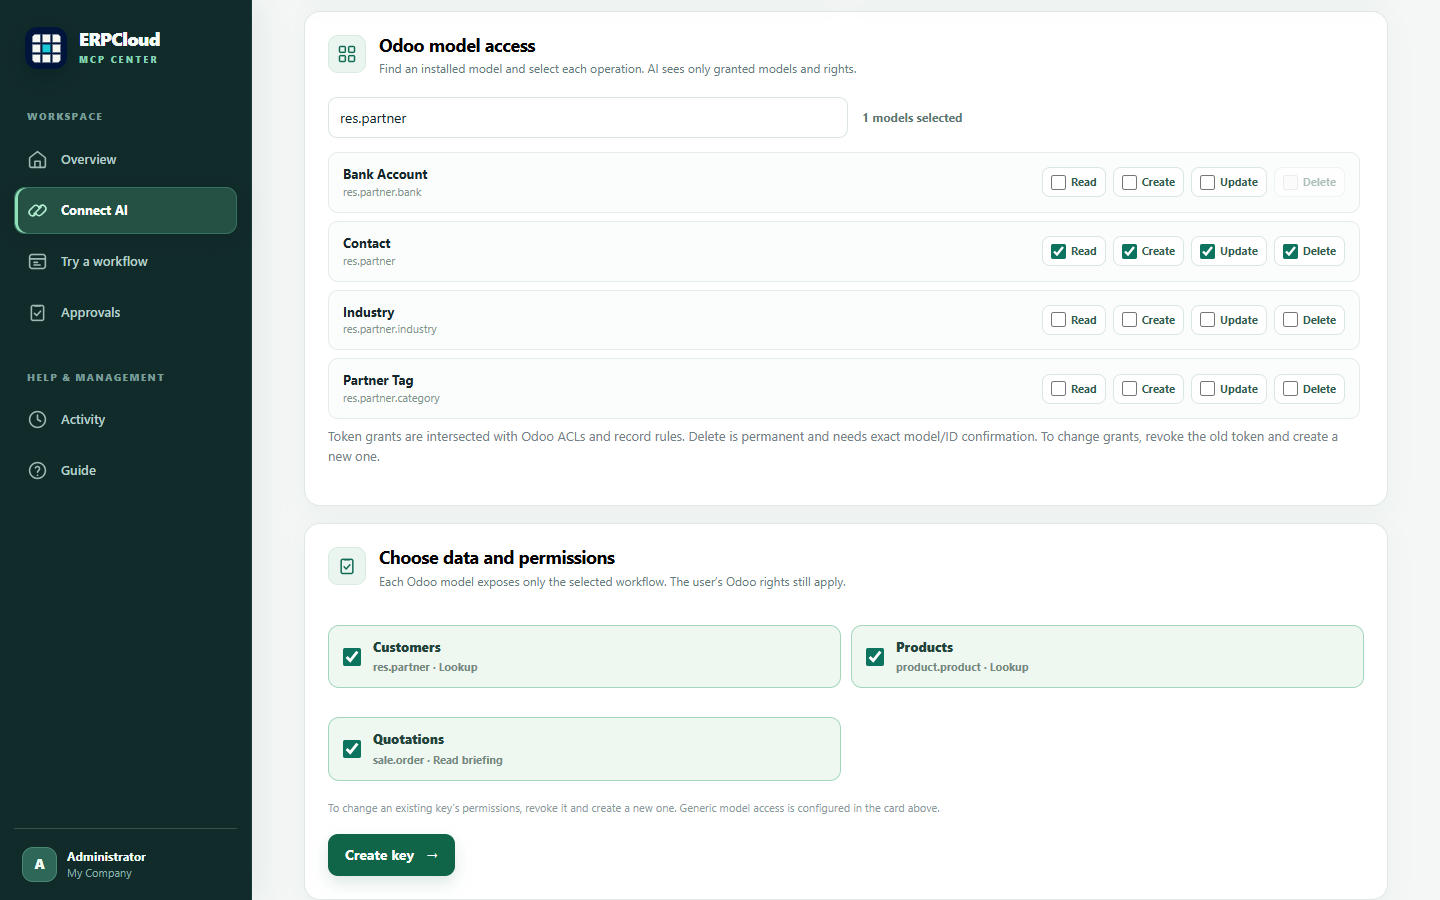
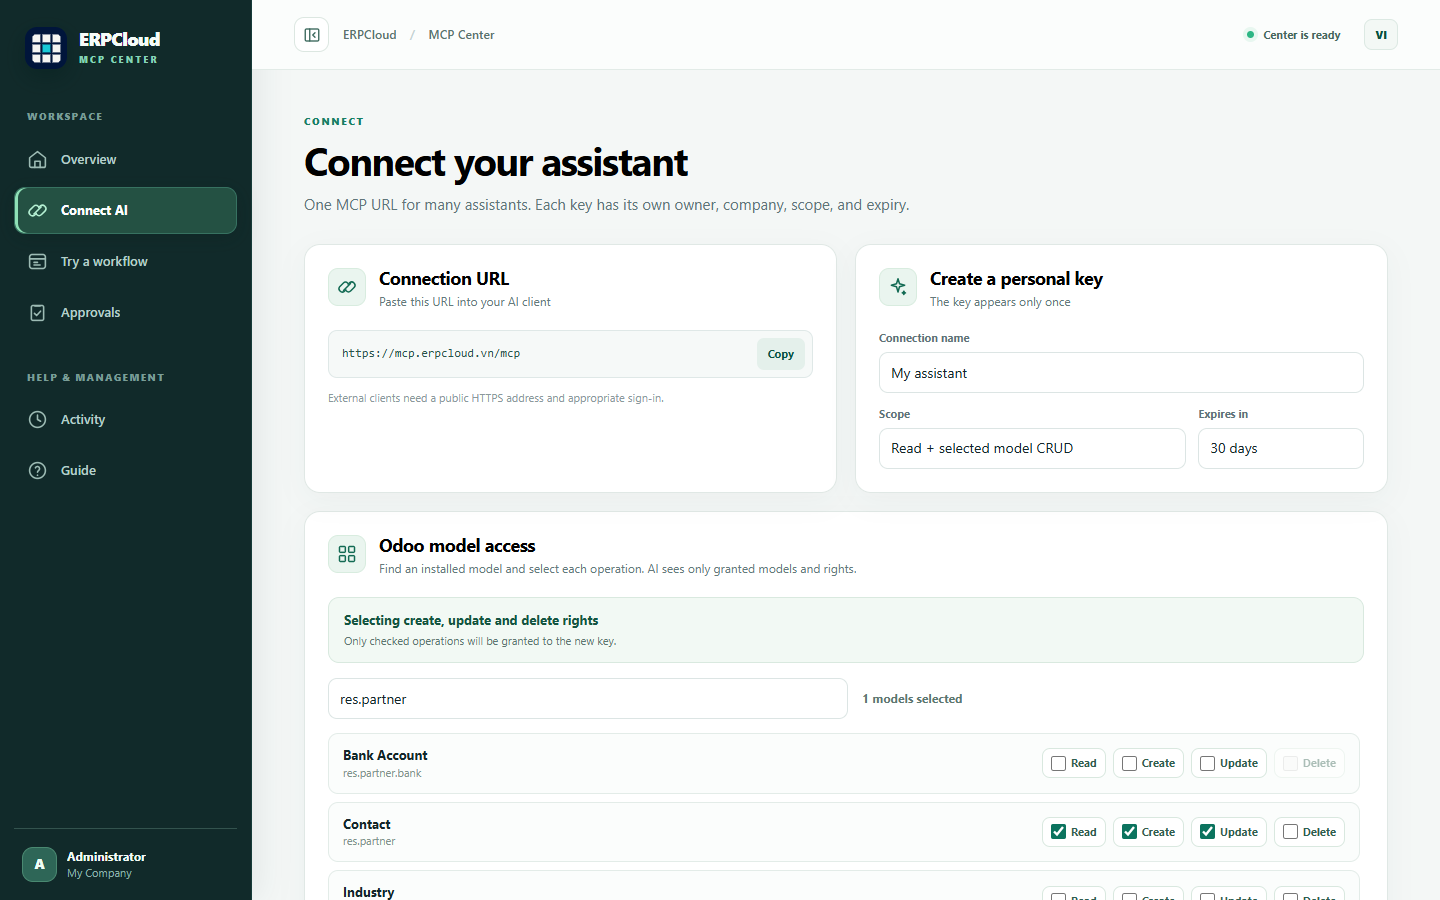
Make MCP model CRUD scope discoverable

diff --git a/erpcloud_mcp_center/static/src/center/center.scss b/erpcloud_mcp_center/static/src/center/center.scss
@@ -76,6 +76,12 @@
 .emc-app input,.emc-app select { display:block; width:100%; height:39px; border:1px solid #dce5e4; border-radius:8px; background:#fff; padding:0 11px; color:var(--emc-ink); outline:none; }
 .emc-app input:focus,.emc-app select:focus { border-color:#46a387; box-shadow:0 0 0 3px #d9f1e5; }
 .emc-model-search { display:flex; align-items:center; gap:14px; margin-bottom:14px; }
+.emc-model-scope { display:flex; align-items:center; justify-content:space-between; gap:16px; margin:0 0 15px; padding:13px 15px; border:1px solid #d9e9df; border-radius:11px; background:#f2f9f4; }
+.emc-model-scope strong,.emc-model-scope small { display:block; }
+.emc-model-scope strong { color:#155541; font-size:13px; }
+.emc-model-scope small { margin-top:3px; color:#5c7771; font-size:11px; }
+.emc-model-scope .emc-secondary { flex:none; border-color:#abd4be; background:#fff; color:#155541; }
+.emc-model-scope-help { max-width:220px; }
 .emc-model-search input { max-width:520px; }
 .emc-model-search span { white-space:nowrap; color:#5c7771; font-size:12px; font-weight:750; }
 .emc-model-list { display:grid; gap:8px; max-height:410px; overflow:auto; padding-right:4px; }
@@ -157,6 +163,7 @@
 @media(max-width:850px) { .emc-app .emc-sidebar { width:190px; } .emc-content { padding:30px 25px 90px; } .emc-topbar { padding:0 25px; } .emc-statgrid,.emc-stepgrid { gap:10px; } }
 @media(max-width:700px) { .emc-app .emc-sidebar { display:none; } .emc-main { width:100%; } .emc-topbar { height:56px; padding:0 17px; } .emc-sidebar-toggle { display:none; } .emc-status-text { display:none; } .emc-content { padding:28px 17px 100px; } .emc-content h1 { font-size:29px; } .emc-lead { font-size:14px; } .emc-grid-two,.emc-permission-grid { grid-template-columns:1fr; } .emc-statgrid { grid-template-columns:repeat(3,minmax(0,1fr)); } .emc-stat { padding:15px 12px; } .emc-stat span,.emc-stat small { font-size:10px; } .emc-stat strong { font-size:27px; } .emc-stepgrid { grid-template-columns:1fr; } .emc-step { min-height:105px; padding:15px 16px 15px 65px; } .emc-stepno { position:absolute; top:15px; left:17px; } .emc-stepicon { position:absolute; top:32px; left:16px; width:33px; height:33px; margin:0; } .emc-step strong { margin-top:18px; } .emc-step em { bottom:24px; } .emc-mobile-nav { position:fixed; z-index:15; bottom:0; left:0; right:0; display:flex; justify-content:space-around; padding:7px 4px; padding-bottom:calc(7px + env(safe-area-inset-bottom)); border-top:1px solid #e2ece7; background:#fff; box-shadow:0 -7px 18px #164b3510; } .emc-mobile-nav button { display:flex; flex:1; align-items:center; flex-direction:column; gap:2px; border:0; background:transparent; color:#849494; font-size:20px; } .emc-mobile-nav button.is-active { color:#08745b; } .emc-mobile-nav small { font-size:10px; font-weight:700; } .emc-keyrow { flex-wrap:wrap; padding:12px 0; } .emc-keyname { flex-basis:calc(100% - 60px); } .emc-activity time { display:none; } .emc-line { grid-template-columns:1fr 65px 75px; } .emc-proposal-foot { align-items:flex-start; flex-direction:column; } }
 @media(max-width:700px) { .emc-model-search { align-items:stretch; flex-direction:column; gap:7px; } .emc-model-row { align-items:flex-start; flex-direction:column; } .emc-model-ops { width:100%; } .emc-model-list { max-height:340px; } }
+@media(max-width:700px) { .emc-model-scope { align-items:stretch; flex-direction:column; } .emc-model-scope .emc-secondary { width:100%; } }
 
 /* MCP Center visual system: quiet canvas, dark navigation, crisp line icons. */
 .emc-app { --emc-ink:#142629; --emc-muted:#657a7c; --emc-line:#e1e9e7; --emc-green:#0b765e; --emc-deep:#07523f; --emc-bg:#f4f7f6; background:var(--emc-bg); color:var(--emc-ink); }

diff --git a/erpcloud_mcp_center/__manifest__.py b/erpcloud_mcp_center/__manifest__.py
@@ -1,7 +1,7 @@
 {
     "name": "ERPCloud MCP Center",
     "summary": "Connect AI assistants to useful, governed Odoo workflows",
-    "version": "20.0.1.2.0",
+    "version": "20.0.1.2.1",
     "category": "Productivity",
     "author": "ERPCloud",
     "website": "https://erpcloud.vn",

diff --git a/erpcloud_mcp_center/RELEASE.md b/erpcloud_mcp_center/RELEASE.md
@@ -1,4 +1,4 @@
-# ERPCloud MCP Center — release 20.0.1.2.0
+# ERPCloud MCP Center — release 20.0.1.2.1
 
 ## Delivered
 
@@ -9,15 +9,17 @@
 - Collapsible desktop sidebar and per-connection grants for three core Odoo models and four curated operations; ungranted tools are hidden and direct calls are denied.
 - Dynamic catalog of installed persistent Odoo models, with per-token read/create/update/delete grants, bounded generic tools and an OAuth consent selector showing the chosen connection's model grants. Generic writes have idempotency keys; delete requires an exact model/record confirmation.
 - Cohesive original SVG navigation icons, a refined dark sidebar, consistent card styling and a mobile layout checked for text overlap and horizontal overflow.
+- The model access card now always shows Read/Create/Update/Delete. The safe default remains read-only; managers can enable write scope in that card, after which each operation is still selected separately and checked against Odoo ACLs.
 - Odoo 20 Community dependencies: `base`, `web`, `sale`. LGPL-3. No ERPCloud private addon and no sample business records on normal install.
 
 ## Verification evidence
 
-The release gate is a fresh Odoo 20 Community database test via `tools/test-module.ps1`. Its log is `../reports/erpcloud_mcp_center-test.log` in the workspace; the latest clean run on 2026-11-07 after the visual redesign recorded **14 tests, 0 failed, 0 errors**. The suite covers key scope/revocation, dynamic model CRUD and idempotency, model permission filtering, direct-call denial, protocol lifecycle, quotation approval/rejection/idempotency, price drift, cross-user and cross-company denial.
+The release gate is a fresh Odoo 20 Community database test via `tools/test-module.ps1`. Its log is `../reports/erpcloud_mcp_center-test.log` in the workspace; the latest clean run on 2026-11-07 for 20.0.1.2.1 recorded **14 tests, 0 failed, 0 errors**. The suite covers key scope/revocation, dynamic model CRUD and idempotency, model permission filtering, direct-call denial, protocol lifecycle, quotation approval/rejection/idempotency, price drift, cross-user and cross-company denial.
 
 The disposable browser QA database was tested locally and again through `https://mcp.erpcloud.vn` after its public HTTPS route was configured. Evidence in the workspace reports:
 
-- `reports/mcp_center_upgrade_qa.log`: separate fresh install followed by immediate module upgrade on Odoo 20 CE for the previous version; the existing local UI database was upgraded from 20.0.1.1.0 to 20.0.1.2.0 successfully.
+- `reports/mcp_center_upgrade_qa.log`: separate fresh install followed by immediate module upgrade on Odoo 20 CE for the previous version. The public QA database was subsequently upgraded to 20.0.1.2.1 and verified through the browser.
+- `reports/mcp_center_model_scope_ui_qa.json`: on public HTTPS, all four operations visible in read-only mode; write operations disabled initially; manager switch enables Odoo-authorized operations; a write-scope key retained selected Read/Create/Update grants and was revoked; 1440px desktop and 360px mobile have no overflow or browser errors.
 - `reports/mcp_center_browser_qa.json`: desktop VI/EN UI, one-time key reveal, same-origin HTTPS connection test, 360px mobile width, no browser errors.
 - `reports/mcp_center_ui_layout_qa.json`: 360px, 768px and 1440px icon loading, six desktop menu icons, no horizontal overflow, no step-icon/text overlap and no browser errors after the redesign. `reports/mcp_center_ui_mobile_steps.png` records the mobile steps.
 - `reports/mcp_center_permission_qa.json`: 242px/72px sidebar open/closed and persistence, restricted tool discovery, direct-call denial, grant-preserving rotation and revoked old key.

diff --git a/erpcloud_mcp_center/docs/USER_GUIDE_VI.md b/erpcloud_mcp_center/docs/USER_GUIDE_VI.md
@@ -23,11 +23,11 @@ Không có thao tác gửi báo giá hoặc xác nhận đơn tự động.
 ## Phân quyền và xử lý lỗi
 
 Người dùng cần quyền Odoo chuẩn để xem/tạo báo giá. Nhóm **MCP Center Manager** cấp khóa đề xuất; nhóm **MCP Center Approver** duyệt. Trong tab **Hoạt động**, sao chép mã truy vết khi liên hệ `info@erpcloud.vn`. Không gửi khóa cá nhân qua email hoặc chat hỗ trợ.
-# Quyền theo model trong bản 20.0.1.1.0
+# Quyền theo model
 
 Trước khi tạo khóa, chọn dữ liệu Odoo và tiện ích được phép dùng: tra cứu khách hàng, tra cứu sản phẩm, xem tóm tắt báo giá. Quản trị viên có thể cấp thêm quyền đề xuất báo giá trong phạm vi báo giá; mỗi đề xuất vẫn cần người phụ trách duyệt. Tiện ích không được chọn sẽ không xuất hiện trong danh sách MCP và bị từ chối nếu gọi trực tiếp. Muốn đổi quyền của khóa cũ, hãy ngắt khóa đó rồi tạo khóa mới. Nút góc trên trái đóng hoặc mở sidebar trên desktop.
 # Cấp quyền động theo model Odoo
 
-Trong **Kết nối AI**, tìm model đã cài bằng tên hoặc mã kỹ thuật. Chọn **Xem** cho từng model; người quản lý MCP Center có thể chọn phạm vi **Xem + thêm/sửa/xóa model đã chọn** và cấp riêng quyền **Thêm**, **Sửa**, **Xóa**. Token không vượt qua ACL hay record rule của người sở hữu trong Odoo. Chỉ chọn model và thao tác trợ lý cần dùng; muốn đổi quyền thì ngắt token cũ và tạo token mới.
+Trong **Kết nối AI → Model Odoo được cấp quyền**, tìm model đã cài bằng tên hoặc mã kỹ thuật. Bốn thao tác **Xem**, **Thêm**, **Sửa**, **Xóa** luôn hiện. Mặc định chỉ có Xem để tránh cấp quyền ghi ngoài ý muốn. Người quản lý MCP Center bấm **Bật quyền ghi**, rồi đánh dấu riêng những thao tác thật sự cần cho từng model. Nếu một thao tác vẫn mờ, tài khoản Odoo hiện tại chưa có quyền đó trên model. Token không vượt qua ACL hay record rule của người sở hữu trong Odoo. Muốn đổi quyền của khóa đã tạo, ngắt khóa cũ và tạo khóa mới.
 
 Các công cụ MCP tổng quát gồm `list_models`, `get_fields`, `search_records`, `get_record`, `create_record`, `update_record`, `delete_record`. Khi ghi dữ liệu, dùng `request_key` ổn định để thử lại không tạo thao tác trùng. Xóa cần xác nhận đúng chuỗi `DELETE <model> <id>` và là thao tác vĩnh viễn. Công cụ không cho gọi phương thức model tùy ý hoặc SQL; trường bí mật, nhị phân và quan hệ danh sách không được mở. Client OAuth phải được duyệt phạm vi **write** cho công cụ ghi. Khi cần hỗ trợ, gửi mã truy vết trong Hoạt động.

diff --git a/erpcloud_mcp_center/docs/USER_GUIDE_EN.md b/erpcloud_mcp_center/docs/USER_GUIDE_EN.md
@@ -6,11 +6,11 @@ The sales briefing reads draft and sent quotations within the owner's Odoo right
 
 For support, send a trace ID from **Activity** to `info@erpcloud.vn`. Never send your key.
 
-# Permissions in version 20.0.1.1.0
+# Connection permissions
 
 Before creating a key, select the Odoo models and workflows it may use: customer lookup, product lookup and sales quotation briefing. A Manager can also enable quotation proposals with the quote scope; an approver must still review every proposal. An unselected workflow is absent from the MCP tool list and rejected if called directly. To change a key's rights, revoke it and create a new key. The desktop menu can be collapsed and expanded with the button at the top left.
 # Dynamic Odoo model access
 
-In **Connect AI**, search any installed persistent Odoo model by label or technical name. Select **Read** for individual models. An MCP Center manager can choose the **Selected model CRUD** scope and grant **Create**, **Update**, or **Delete** per model. A token never overrides the owner's Odoo access rights or record rules. Select only the models and operations a particular assistant needs; revoke and reissue a token to change its grants.
+In **Connect AI → Odoo model access**, search any installed persistent Odoo model by label or technical name. Read, Create, Update and Delete are always visible. The default scope permits Read only. An MCP Center manager can click **Enable write scope**, then select Create, Update or Delete separately for each model. An operation stays disabled if the Odoo user lacks that model right. A token never overrides the owner's Odoo access rights or record rules. Select only the operations a particular assistant needs; revoke and reissue a token to change its grants.
 
 Generic MCP tools are `list_models`, `get_fields`, `search_records`, `get_record`, `create_record`, `update_record`, and `delete_record`. For writes, use a stable `request_key` so a client retry cannot duplicate the action. Deletion requires the exact confirmation text `DELETE <model> <id>` and is permanent. The generic tools do not call arbitrary model methods or accept SQL. Some fields (secrets, binary and collection relations) are deliberately unavailable. OAuth clients need explicit **write** consent for write tools. Use the Activity trace ID when asking for support.

diff --git a/erpcloud_mcp_center/README.md b/erpcloud_mcp_center/README.md
@@ -14,7 +14,7 @@ No ERPCloud private addon is required. Installation adds no sample customer or p
 
 1. Copy `erpcloud_mcp_center` into an Odoo addons path.
 2. Refresh Apps and install **ERPCloud MCP Center**.
-3. Open the **MCP Center** root menu. The initial key scope is read only.
+3. Open the **MCP Center** root menu. The initial key scope is read only. In **Connect AI → Odoo model access**, all four operations are visible; an MCP Center manager can click **Enable write scope** to select Create, Update and Delete separately.
 4. A system administrator or **MCP Center Manager** may issue a quote proposal key. Assign **MCP Center Approver** to users allowed to approve proposals.
 5. Set `web.base.url` to the actual HTTPS origin. If an AI client is hosted elsewhere, ensure it can reach `https://your-odoo/mcp`.
 

diff --git a/erpcloud_mcp_center/CHANGELOG.md b/erpcloud_mcp_center/CHANGELOG.md
@@ -1,5 +1,10 @@
 # Changelog
 
+## 20.0.1.2.1 — 2026-11-07
+
+- Show all four model operations in the permission card. Read-only remains the default; an MCP Center manager can enable write scope directly from that card before selecting Create, Update or Delete.
+- Refresh marketplace screenshots from the public HTTPS QA build.
+
 ## 20.0.1.2.0 — 2026-11-07
 
 - Searchable catalog of installed persistent Odoo models, with per-token read/create/update/delete grants.
